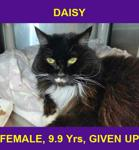
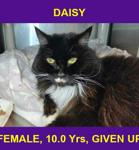
Auto-update commit on 2025-08-23 10:00:41

Changed region(s): [[0.0, 0.8533, 1.0, 0.9867]]

diff --git a/index.html b/index.html
@@ -49,16 +49,16 @@
 
 <center>
     <img class ="myImages"
-        id="myImg" src="stats/Cat_LOS_2025-08-22.png"
+        id="myImg" src="stats/Cat_LOS_2025-08-23.png"
          alt = "LOS" width="50"height="50">
     <img class ="myImages"
-        id="myImg" src="stats/Cat_Ages_2025-08-22.png"
+        id="myImg" src="stats/Cat_Ages_2025-08-23.png"
          alt = "Age" width="50"height="50">
     <img class ="myImages"
-        id="myImg" src="stats/cat_dog_status_count_2025-08-22.png"
+        id="myImg" src="stats/cat_dog_status_count_2025-08-23.png"
          alt = "Status" width="50"height="50">
     <img class ="myImages"
-        id="myImg" src="stats/System_2025-08-22.png"
+        id="myImg" src="stats/System_2025-08-23.png"
          alt = "Category" width="50"height="50">
 </center>
 
@@ -75,207 +75,215 @@
 <div class = "lbcontainer">
     <div class = "gallery">
         <a href = "images/529817ACE.jpeg" data-Lightbox = "models" 
-        data-title="Altered, DOMESTIC SHORT HAIR,  In the Shelter for 6 Days" >
+        data-title="Altered, DOMESTIC SHORT HAIR,  In the Shelter for 7 Days" >
         <img src ="thumbs/529817ACE_T.jpeg" alt = "ACE">
         </a>
         <a href = "images/529666ALFREDA .jpeg" data-Lightbox = "models" 
-        data-title="Altered, DOMESTIC MEDIUM HAIR,  In the Shelter for 13 Days" >
+        data-title="Altered, DOMESTIC MEDIUM HAIR,  In the Shelter for 14 Days" >
         <img src ="thumbs/529666ALFREDA _T.jpeg" alt = "ALFREDA ">
         </a>
         <a href = "images/529292BEAR.jpeg" data-Lightbox = "models" 
-        data-title="Altered, DOMESTIC SHORT HAIR,  In the Shelter for 36 Days" >
+        data-title="Altered, DOMESTIC SHORT HAIR,  In the Shelter for 37 Days" >
         <img src ="thumbs/529292BEAR_T.jpeg" alt = "BEAR">
         </a>
+        <a href = "images/529911BILLIARD BALL.jpeg" data-Lightbox = "models" 
+        data-title="Altered, DOMESTIC SHORT HAIR,  In the Shelter for 2 Days" >
+        <img src ="thumbs/529911BILLIARD BALL_T.jpeg" alt = "BILLIARD BALL">
+        </a>
         <a href = "images/529145BUBBLES.jpeg" data-Lightbox = "models" 
-        data-title="Altered, DOMESTIC SHORT HAIR,  In the Shelter for 43 Days" >
+        data-title="Altered, DOMESTIC SHORT HAIR,  In the Shelter for 44 Days" >
         <img src ="thumbs/529145BUBBLES_T.jpeg" alt = "BUBBLES">
         </a>
         <a href = "images/529609CALLIE.jpeg" data-Lightbox = "models" 
-        data-title="Altered, DOMESTIC SHORT HAIR,  In the Shelter for 16 Days" >
+        data-title="Altered, DOMESTIC SHORT HAIR,  In the Shelter for 17 Days" >
         <img src ="thumbs/529609CALLIE_T.jpeg" alt = "CALLIE">
         </a>
         <a href = "images/529142CHUCKY.jpeg" data-Lightbox = "models" 
-        data-title="Altered, DOMESTIC SHORT HAIR,  In the Shelter for 43 Days" >
+        data-title="Altered, DOMESTIC SHORT HAIR,  In the Shelter for 44 Days" >
         <img src ="thumbs/529142CHUCKY_T.jpeg" alt = "CHUCKY">
         </a>
         <a href = "images/529572CHURCH.jpeg" data-Lightbox = "models" 
-        data-title="Altered, DOMESTIC SHORT HAIR,  In the Shelter for 17 Days" >
+        data-title="Altered, DOMESTIC SHORT HAIR,  In the Shelter for 18 Days" >
         <img src ="thumbs/529572CHURCH_T.jpeg" alt = "CHURCH">
         </a>
         <a href = "images/529887DAISY.jpeg" data-Lightbox = "models" 
-        data-title="Altered, DOMESTIC LONG HAIR,  In the Shelter for 2 Days" >
+        data-title="Altered, DOMESTIC LONG HAIR,  In the Shelter for 3 Days" >
         <img src ="thumbs/529887DAISY_T.jpeg" alt = "DAISY">
         </a>
         <a href = "images/529859DAVID.jpeg" data-Lightbox = "models" 
-        data-title="Not Altered, DOMESTIC SHORT HAIR,  In the Shelter for 3 Days" >
+        data-title="Altered, DOMESTIC SHORT HAIR,  In the Shelter for 4 Days" >
         <img src ="thumbs/529859DAVID_T.jpeg" alt = "DAVID">
         </a>
         <a href = "images/529603DEMELZA.jpeg" data-Lightbox = "models" 
-        data-title="Altered, DOMESTIC SHORT HAIR,  In the Shelter for 16 Days" >
+        data-title="Altered, DOMESTIC SHORT HAIR,  In the Shelter for 17 Days" >
         <img src ="thumbs/529603DEMELZA_T.jpeg" alt = "DEMELZA">
         </a>
         <a href = "images/529560DOROTHY.jpeg" data-Lightbox = "models" 
-        data-title="Altered, DOMESTIC SHORT HAIR,  In the Shelter for 20 Days" >
+        data-title="Altered, DOMESTIC SHORT HAIR,  In the Shelter for 21 Days" >
         <img src ="thumbs/529560DOROTHY_T.jpeg" alt = "DOROTHY">
         </a>
         <a href = "images/529910DOUGHNUT BURGER.jpeg" data-Lightbox = "models" 
-        data-title="Altered, DOMESTIC SHORT HAIR,  In the Shelter for 1 Days" >
+        data-title="Altered, DOMESTIC SHORT HAIR,  In the Shelter for 2 Days" >
         <img src ="thumbs/529910DOUGHNUT BURGER_T.jpeg" alt = "DOUGHNUT BURGER">
         </a>
         <a href = "images/529815EMMANUEL.jpeg" data-Lightbox = "models" 
-        data-title="Not Altered, DOMESTIC SHORT HAIR,  In the Shelter for 6 Days" >
+        data-title="Not Altered, DOMESTIC SHORT HAIR,  In the Shelter for 7 Days" >
         <img src ="thumbs/529815EMMANUEL_T.jpeg" alt = "EMMANUEL">
         </a>
         <a href = "images/528980FLY BOY.jpeg" data-Lightbox = "models" 
-        data-title="Altered, DOMESTIC SHORT HAIR,  In the Shelter for 55 Days" >
+        data-title="Altered, DOMESTIC SHORT HAIR,  In the Shelter for 56 Days" >
         <img src ="thumbs/528980FLY BOY_T.jpeg" alt = "FLY BOY">
         </a>
+        <a href = "images/529912FRANCIS.jpeg" data-Lightbox = "models" 
+        data-title="Not Altered, DOMESTIC SHORT HAIR,  In the Shelter for 2 Days" >
+        <img src ="thumbs/529912FRANCIS_T.jpeg" alt = "FRANCIS">
+        </a>
         <a href = "images/529907FRIED TWINKIE.jpeg" data-Lightbox = "models" 
-        data-title="Altered, DOMESTIC MEDIUM HAIR,  In the Shelter for 1 Days" >
+        data-title="Altered, DOMESTIC MEDIUM HAIR,  In the Shelter for 2 Days" >
         <img src ="thumbs/529907FRIED TWINKIE_T.jpeg" alt = "FRIED TWINKIE">
         </a>
         <a href = "images/529772GEORGE SQUARSHINGTON.jpeg" data-Lightbox = "models" 
-        data-title="Not Altered, DOMESTIC SHORT HAIR,  In the Shelter for 8 Days" >
+        data-title="Altered, DOMESTIC SHORT HAIR,  In the Shelter for 9 Days" >
         <img src ="thumbs/529772GEORGE SQUARSHINGTON_T.jpeg" alt = "GEORGE SQUARSHINGTON">
         </a>
         <a href = "images/529858GOLIATH.jpeg" data-Lightbox = "models" 
-        data-title="Not Altered, DOMESTIC SHORT HAIR,  In the Shelter for 3 Days" >
+        data-title="Altered, DOMESTIC SHORT HAIR,  In the Shelter for 4 Days" >
         <img src ="thumbs/529858GOLIATH_T.jpeg" alt = "GOLIATH">
         </a>
         <a href = "images/529857KALE.jpeg" data-Lightbox = "models" 
-        data-title="Not Altered, DOMESTIC SHORT HAIR,  In the Shelter for 3 Days" >
+        data-title="Altered, DOMESTIC SHORT HAIR,  In the Shelter for 4 Days" >
         <img src ="thumbs/529857KALE_T.jpeg" alt = "KALE">
         </a>
         <a href = "images/529604KOHL'S.jpeg" data-Lightbox = "models" 
-        data-title="Altered, DOMESTIC MEDIUM HAIR,  In the Shelter for 16 Days" >
+        data-title="Altered, DOMESTIC MEDIUM HAIR,  In the Shelter for 17 Days" >
         <img src ="thumbs/529604KOHL'S_T.jpeg" alt = "KOHL'S">
         </a>
         <a href = "images/529806KRUSTY KRAB.jpeg" data-Lightbox = "models" 
-        data-title="Not Altered, DOMESTIC SHORT HAIR,  In the Shelter for 7 Days" >
+        data-title="Not Altered, DOMESTIC SHORT HAIR,  In the Shelter for 8 Days" >
         <img src ="thumbs/529806KRUSTY KRAB_T.jpeg" alt = "KRUSTY KRAB">
         </a>
+        <a href = "images/529916LIRIOPE.jpeg" data-Lightbox = "models" 
+        data-title="Not Altered, DOMESTIC SHORT HAIR,  In the Shelter for 2 Days" >
+        <img src ="thumbs/529916LIRIOPE_T.jpeg" alt = "LIRIOPE">
+        </a>
         <a href = "images/529225LOVE SAC.jpeg" data-Lightbox = "models" 
-        data-title="Altered, DOMESTIC SHORT HAIR,  In the Shelter for 38 Days" >
+        data-title="Altered, DOMESTIC SHORT HAIR,  In the Shelter for 39 Days" >
         <img src ="thumbs/529225LOVE SAC_T.jpeg" alt = "LOVE SAC">
         </a>
+        <a href = "images/529923MACY.jpeg" data-Lightbox = "models" 
+        data-title="Altered, DOMESTIC MEDIUM HAIR,  In the Shelter for 1 Days" >
+        <img src ="thumbs/529923MACY_T.jpeg" alt = "MACY">
+        </a>
         <a href = "images/529701MARA.jpeg" data-Lightbox = "models" 
-        data-title="Not Altered, DOMESTIC MEDIUM HAIR,  In the Shelter for 10 Days" >
+        data-title="Not Altered, DOMESTIC MEDIUM HAIR,  In the Shelter for 11 Days" >
         <img src ="thumbs/529701MARA_T.jpeg" alt = "MARA">
         </a>
         <a href = "images/529856MELANIE.jpeg" data-Lightbox = "models" 
-        data-title="Not Altered, DOMESTIC SHORT HAIR,  In the Shelter for 3 Days" >
+        data-title="Not Altered, DOMESTIC SHORT HAIR,  In the Shelter for 4 Days" >
         <img src ="thumbs/529856MELANIE_T.jpeg" alt = "MELANIE">
         </a>
         <a href = "images/529231MIA.jpeg" data-Lightbox = "models" 
-        data-title="Altered, DOMESTIC SHORT HAIR,  In the Shelter for 38 Days" >
+        data-title="Altered, DOMESTIC SHORT HAIR,  In the Shelter for 39 Days" >
         <img src ="thumbs/529231MIA_T.jpeg" alt = "MIA">
         </a>
         <a href = "images/528874MISS D.jpeg" data-Lightbox = "models" 
-        data-title="Altered, DOMESTIC SHORT HAIR,  In the Shelter for 62 Days" >
+        data-title="Altered, DOMESTIC SHORT HAIR,  In the Shelter for 63 Days" >
         <img src ="thumbs/528874MISS D_T.jpeg" alt = "MISS D">
         </a>
         <a href = "images/529888MISS STACHE.jpeg" data-Lightbox = "models" 
-        data-title="Altered, DOMESTIC SHORT HAIR,  In the Shelter for 2 Days" >
+        data-title="Altered, DOMESTIC SHORT HAIR,  In the Shelter for 3 Days" >
         <img src ="thumbs/529888MISS STACHE_T.jpeg" alt = "MISS STACHE">
         </a>
         <a href = "images/529820OATMEAL.jpeg" data-Lightbox = "models" 
-        data-title="Altered, DOMESTIC SHORT HAIR,  In the Shelter for 6 Days" >
+        data-title="Altered, DOMESTIC SHORT HAIR,  In the Shelter for 7 Days" >
         <img src ="thumbs/529820OATMEAL_T.jpeg" alt = "OATMEAL">
         </a>
         <a href = "images/529703PEGMATITE.jpeg" data-Lightbox = "models" 
-        data-title="Not Altered, DOMESTIC SHORT HAIR,  In the Shelter for 10 Days" >
+        data-title="Not Altered, DOMESTIC SHORT HAIR,  In the Shelter for 11 Days" >
         <img src ="thumbs/529703PEGMATITE_T.jpeg" alt = "PEGMATITE">
         </a>
         <a href = "images/529861PERIDOT.jpeg" data-Lightbox = "models" 
-        data-title="Altered, DOMESTIC SHORT HAIR,  In the Shelter for 3 Days" >
+        data-title="Altered, DOMESTIC SHORT HAIR,  In the Shelter for 4 Days" >
         <img src ="thumbs/529861PERIDOT_T.jpeg" alt = "PERIDOT">
         </a>
         <a href = "images/529784PHOENIX.jpeg" data-Lightbox = "models" 
-        data-title="Altered, DOMESTIC MEDIUM HAIR,  In the Shelter for 8 Days" >
+        data-title="Altered, DOMESTIC MEDIUM HAIR,  In the Shelter for 9 Days" >
         <img src ="thumbs/529784PHOENIX_T.jpeg" alt = "PHOENIX">
         </a>
-        <a href = "images/529714PICKLEBALL.jpeg" data-Lightbox = "models" 
-        data-title="Altered, DOMESTIC SHORT HAIR,  In the Shelter for 9 Days" >
-        <img src ="thumbs/529714PICKLEBALL_T.jpeg" alt = "PICKLEBALL">
-        </a>
         <a href = "images/529503POLLY SHELBY.jpeg" data-Lightbox = "models" 
-        data-title="Altered, DOMESTIC SHORT HAIR,  In the Shelter for 21 Days" >
+        data-title="Altered, DOMESTIC SHORT HAIR,  In the Shelter for 22 Days" >
         <img src ="thumbs/529503POLLY SHELBY_T.jpeg" alt = "POLLY SHELBY">
         </a>
         <a href = "images/529821RAISIN.jpeg" data-Lightbox = "models" 
-        data-title="Altered, DOMESTIC SHORT HAIR,  In the Shelter for 6 Days" >
+        data-title="Altered, DOMESTIC SHORT HAIR,  In the Shelter for 7 Days" >
         <img src ="thumbs/529821RAISIN_T.jpeg" alt = "RAISIN">
         </a>
         <a href = "images/529873ROLY POLY.jpeg" data-Lightbox = "models" 
-        data-title="Not Altered, DOMESTIC SHORT HAIR,  In the Shelter for 2 Days" >
+        data-title="Not Altered, DOMESTIC SHORT HAIR,  In the Shelter for 3 Days" >
         <img src ="thumbs/529873ROLY POLY_T.jpeg" alt = "ROLY POLY">
         </a>
         <a href = "images/529557SOPHIA.jpeg" data-Lightbox = "models" 
-        data-title="Altered, DOMESTIC SHORT HAIR,  In the Shelter for 20 Days" >
+        data-title="Altered, DOMESTIC SHORT HAIR,  In the Shelter for 21 Days" >
         <img src ="thumbs/529557SOPHIA_T.jpeg" alt = "SOPHIA">
         </a>
         <a href = "images/528640SPROUT.jpeg" data-Lightbox = "models" 
-        data-title="Altered, DOMESTIC SHORT HAIR,  In the Shelter for 71 Days" >
+        data-title="Altered, DOMESTIC SHORT HAIR,  In the Shelter for 72 Days" >
         <img src ="thumbs/528640SPROUT_T.jpeg" alt = "SPROUT">
         </a>
         <a href = "images/529290TABORA.jpeg" data-Lightbox = "models" 
-        data-title="Altered, DOMESTIC SHORT HAIR,  In the Shelter for 36 Days" >
+        data-title="Altered, DOMESTIC SHORT HAIR,  In the Shelter for 37 Days" >
         <img src ="thumbs/529290TABORA_T.jpeg" alt = "TABORA">
         </a>
         <a href = "images/529494TAILS.jpeg" data-Lightbox = "models" 
-        data-title="Altered, DOMESTIC SHORT HAIR,  In the Shelter for 22 Days" >
+        data-title="Altered, DOMESTIC SHORT HAIR,  In the Shelter for 23 Days" >
         <img src ="thumbs/529494TAILS_T.jpeg" alt = "TAILS">
         </a>
         <a href = "images/529605TAIYAKI.jpeg" data-Lightbox = "models" 
-        data-title="Altered, DOMESTIC SHORT HAIR,  In the Shelter for 16 Days" >
+        data-title="Altered, DOMESTIC SHORT HAIR,  In the Shelter for 17 Days" >
         <img src ="thumbs/529605TAIYAKI_T.jpeg" alt = "TAIYAKI">
         </a>
         <a href = "images/529571TAKOYAKI.jpeg" data-Lightbox = "models" 
-        data-title="Not Altered, DOMESTIC SHORT HAIR,  In the Shelter for 17 Days" >
+        data-title="Not Altered, DOMESTIC SHORT HAIR,  In the Shelter for 18 Days" >
         <img src ="thumbs/529571TAKOYAKI_T.jpeg" alt = "TAKOYAKI">
         </a>
         <a href = "images/529862TOOKIE.jpeg" data-Lightbox = "models" 
-        data-title="Not Altered, DOMESTIC SHORT HAIR,  In the Shelter for 3 Days" >
+        data-title="Altered, DOMESTIC SHORT HAIR,  In the Shelter for 4 Days" >
         <img src ="thumbs/529862TOOKIE_T.jpeg" alt = "TOOKIE">
         </a>
         <a href = "images/529844TREEBARK.jpeg" data-Lightbox = "models" 
-        data-title="Not Altered, DOMESTIC SHORT HAIR,  In the Shelter for 4 Days" >
+        data-title="Not Altered, DOMESTIC SHORT HAIR,  In the Shelter for 5 Days" >
         <img src ="thumbs/529844TREEBARK_T.jpeg" alt = "TREEBARK">
         </a>
         <a href = "images/529906TUCK.jpeg" data-Lightbox = "models" 
-        data-title="Not Altered, DOMESTIC SHORT HAIR,  In the Shelter for 1 Days" >
+        data-title="Not Altered, DOMESTIC SHORT HAIR,  In the Shelter for 2 Days" >
         <img src ="thumbs/529906TUCK_T.jpeg" alt = "TUCK">
         </a>
         <a href = "images/529801TWEEDLE DEE.jpeg" data-Lightbox = "models" 
-        data-title="Not Altered, DOMESTIC SHORT HAIR,  In the Shelter for 7 Days" >
+        data-title="Altered, DOMESTIC SHORT HAIR,  In the Shelter for 8 Days" >
         <img src ="thumbs/529801TWEEDLE DEE_T.jpeg" alt = "TWEEDLE DEE">
         </a>
         <a href = "images/529804TWEEDLE DUM.jpeg" data-Lightbox = "models" 
-        data-title="Not Altered, DOMESTIC SHORT HAIR,  In the Shelter for 7 Days" >
+        data-title="Altered, DOMESTIC SHORT HAIR,  In the Shelter for 8 Days" >
         <img src ="thumbs/529804TWEEDLE DUM_T.jpeg" alt = "TWEEDLE DUM">
         </a>
         <a href = "images/529904WALKING TACO.jpeg" data-Lightbox = "models" 
-        data-title="Altered, DOMESTIC SHORT HAIR,  In the Shelter for 1 Days" >
+        data-title="Altered, DOMESTIC SHORT HAIR,  In the Shelter for 2 Days" >
         <img src ="thumbs/529904WALKING TACO_T.jpeg" alt = "WALKING TACO">
         </a>
         <a href = "images/529601WALMART.jpeg" data-Lightbox = "models" 
-        data-title="Not Altered, DOMESTIC SHORT HAIR,  In the Shelter for 16 Days" >
+        data-title="Not Altered, DOMESTIC SHORT HAIR,  In the Shelter for 17 Days" >
         <img src ="thumbs/529601WALMART_T.jpeg" alt = "WALMART">
         </a>
         <a href = "images/529080WELCH.jpeg" data-Lightbox = "models" 
-        data-title="Altered, DOMESTIC SHORT HAIR,  In the Shelter for 50 Days" >
+        data-title="Altered, DOMESTIC SHORT HAIR,  In the Shelter for 51 Days" >
         <img src ="thumbs/529080WELCH_T.jpeg" alt = "WELCH">
         </a>
-        <a href = "images/529729WENDY.jpeg" data-Lightbox = "models" 
-        data-title="Altered, DOMESTIC SHORT HAIR,  In the Shelter for 9 Days" >
-        <img src ="thumbs/529729WENDY_T.jpeg" alt = "WENDY">
-        </a>
         <a href = "images/529700WINDY.jpeg" data-Lightbox = "models" 
-        data-title="Not Altered, DOMESTIC MEDIUM HAIR,  In the Shelter for 10 Days" >
+        data-title="Not Altered, DOMESTIC MEDIUM HAIR,  In the Shelter for 11 Days" >
         <img src ="thumbs/529700WINDY_T.jpeg" alt = "WINDY">
         </a>
         <a href = "images/529079WINN DIXIE.jpeg" data-Lightbox = "models" 
-        data-title="Altered, DOMESTIC SHORT HAIR,  In the Shelter for 50 Days" >
+        data-title="Altered, DOMESTIC SHORT HAIR,  In the Shelter for 51 Days" >
         <img src ="thumbs/529079WINN DIXIE_T.jpeg" alt = "WINN DIXIE">
         </a>
     </div>

diff --git a/foster.html b/foster.html
@@ -45,31 +45,31 @@
 <div class = "lbcontainer">
     <div class = "gallery">
         <a href = "f_images/529517BAZZ.jpeg" data-Lightbox = "models" 
-        data-title="Not Altered, DOMESTIC SHORT HAIR,  In the Shelter for 21 Days" >
+        data-title="Not Altered, DOMESTIC SHORT HAIR,  In the Shelter for 22 Days" >
         <img src ="f_thumbs/529517BAZZ_T.jpeg" alt = "BAZZ">
         </a>
         <a href = "f_images/529385FLAPPY BIRD.jpeg" data-Lightbox = "models" 
-        data-title="Not Altered, DOMESTIC SHORT HAIR,  In the Shelter for 29 Days" >
+        data-title="Not Altered, DOMESTIC SHORT HAIR,  In the Shelter for 30 Days" >
         <img src ="f_thumbs/529385FLAPPY BIRD_T.jpeg" alt = "FLAPPY BIRD">
         </a>
         <a href = "f_images/529760GNOCCHI.jpeg" data-Lightbox = "models" 
-        data-title="Altered, DOMESTIC SHORT HAIR,  In the Shelter for 8 Days" >
+        data-title="Altered, DOMESTIC SHORT HAIR,  In the Shelter for 9 Days" >
         <img src ="f_thumbs/529760GNOCCHI_T.jpeg" alt = "GNOCCHI">
         </a>
         <a href = "f_images/528978HOTSY-TOTSY.jpeg" data-Lightbox = "models" 
-        data-title="Altered, DOMESTIC SHORT HAIR,  In the Shelter for 55 Days" >
+        data-title="Altered, DOMESTIC SHORT HAIR,  In the Shelter for 56 Days" >
         <img src ="f_thumbs/528978HOTSY-TOTSY_T.jpeg" alt = "HOTSY-TOTSY">
         </a>
         <a href = "f_images/529481SOPHIE.jpeg" data-Lightbox = "models" 
-        data-title="Altered, DOMESTIC SHORT HAIR,  In the Shelter for 23 Days" >
+        data-title="Altered, DOMESTIC SHORT HAIR,  In the Shelter for 24 Days" >
         <img src ="f_thumbs/529481SOPHIE_T.jpeg" alt = "SOPHIE">
         </a>
         <a href = "f_images/527414STEWIE.jpeg" data-Lightbox = "models" 
-        data-title="Altered, DOMESTIC SHORT HAIR,  In the Shelter for 149 Days" >
+        data-title="Altered, DOMESTIC SHORT HAIR,  In the Shelter for 150 Days" >
         <img src ="f_thumbs/527414STEWIE_T.jpeg" alt = "STEWIE">
         </a>
         <a href = "f_images/528072TWEETY.jpeg" data-Lightbox = "models" 
-        data-title="Altered, DOMESTIC SHORT HAIR,  In the Shelter for 105 Days" >
+        data-title="Altered, DOMESTIC SHORT HAIR,  In the Shelter for 106 Days" >
         <img src ="f_thumbs/528072TWEETY_T.jpeg" alt = "TWEETY">
         </a>
     </div>

diff --git a/about.html b/about.html
@@ -41,14 +41,14 @@
             <h2>Cat Quote of the Day</h2>
             <p>
             
-      "Regaring Politics: You"ve got your cats on one side and your dogs on the other; someone has to walk the fence and feed the animals. -Kinky Friedman-
+      "Here was an opportunity to save the world. A simple thing. In exchange for her cat. "No!- she said. -Certainly not!-
     
   -
   
-    Ray Palla,
+    Carol de Chellis Hill,
   
     
-      SIMPLE TRIPLE STANDARD
+      The Eleven Million Mile High Dancer
     
 
 
